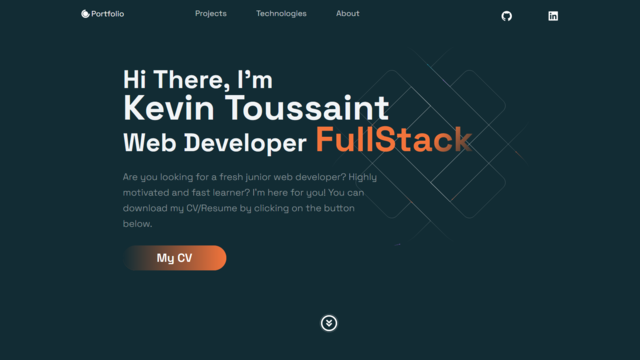
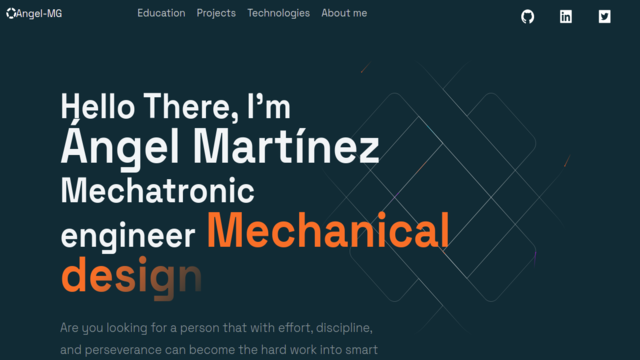
commit

diff --git a/src/constants/constants.js b/src/constants/constants.js
@@ -12,11 +12,11 @@ export const projects = [
   {
     title: "This Portfolio",
     description:
-      "This portfolio was built with React.JS and next. Many styled-components was created to be used everywhere on the app. This website is entirely responsive and i used ityped for the dynamic text on the hero.",
+      "This portfolio was built with React.JS and next. Many styled-components was created to be used everywhere on the app. This website is based on a open source template.",
     image: "/images/portfolio.png",
     tags: ["React", "Next", "Styled-Components"],
-    source: "https://kevin-toussaint.com/",
-    visit: "https://github.com/NivekDevv/Portfolio",
+    source: "https://angelmg23-upiita-ipn-myportfolio.vercel.app/",
+    visit: "https://github.com/AngelMG23/my-repository",
     id: 3,
   },
   {
